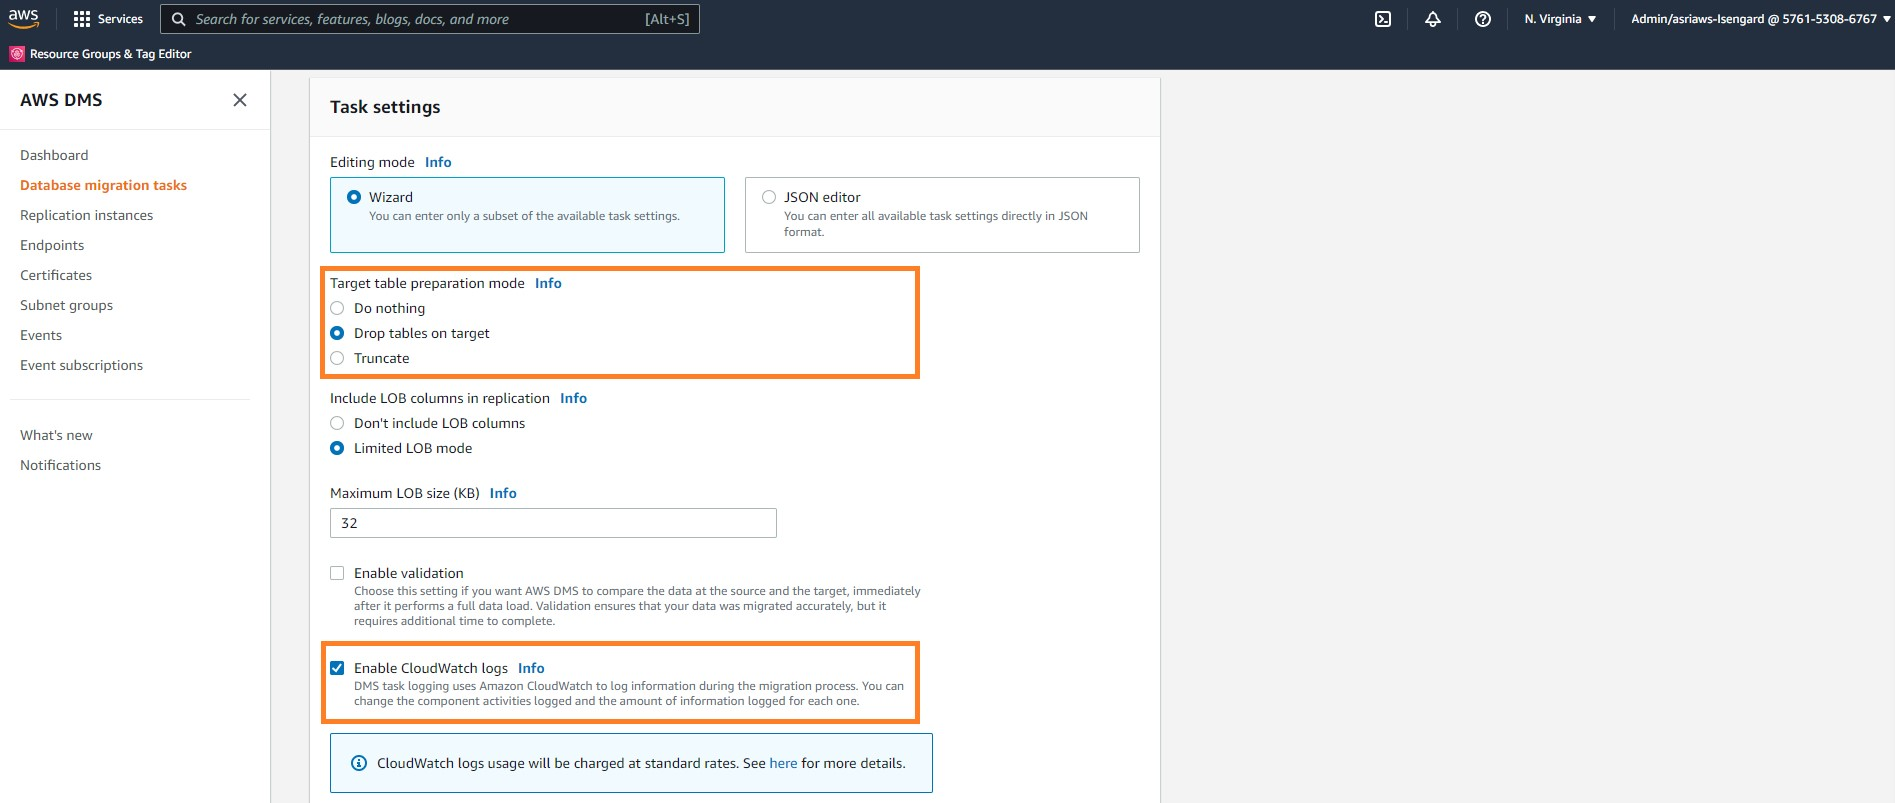
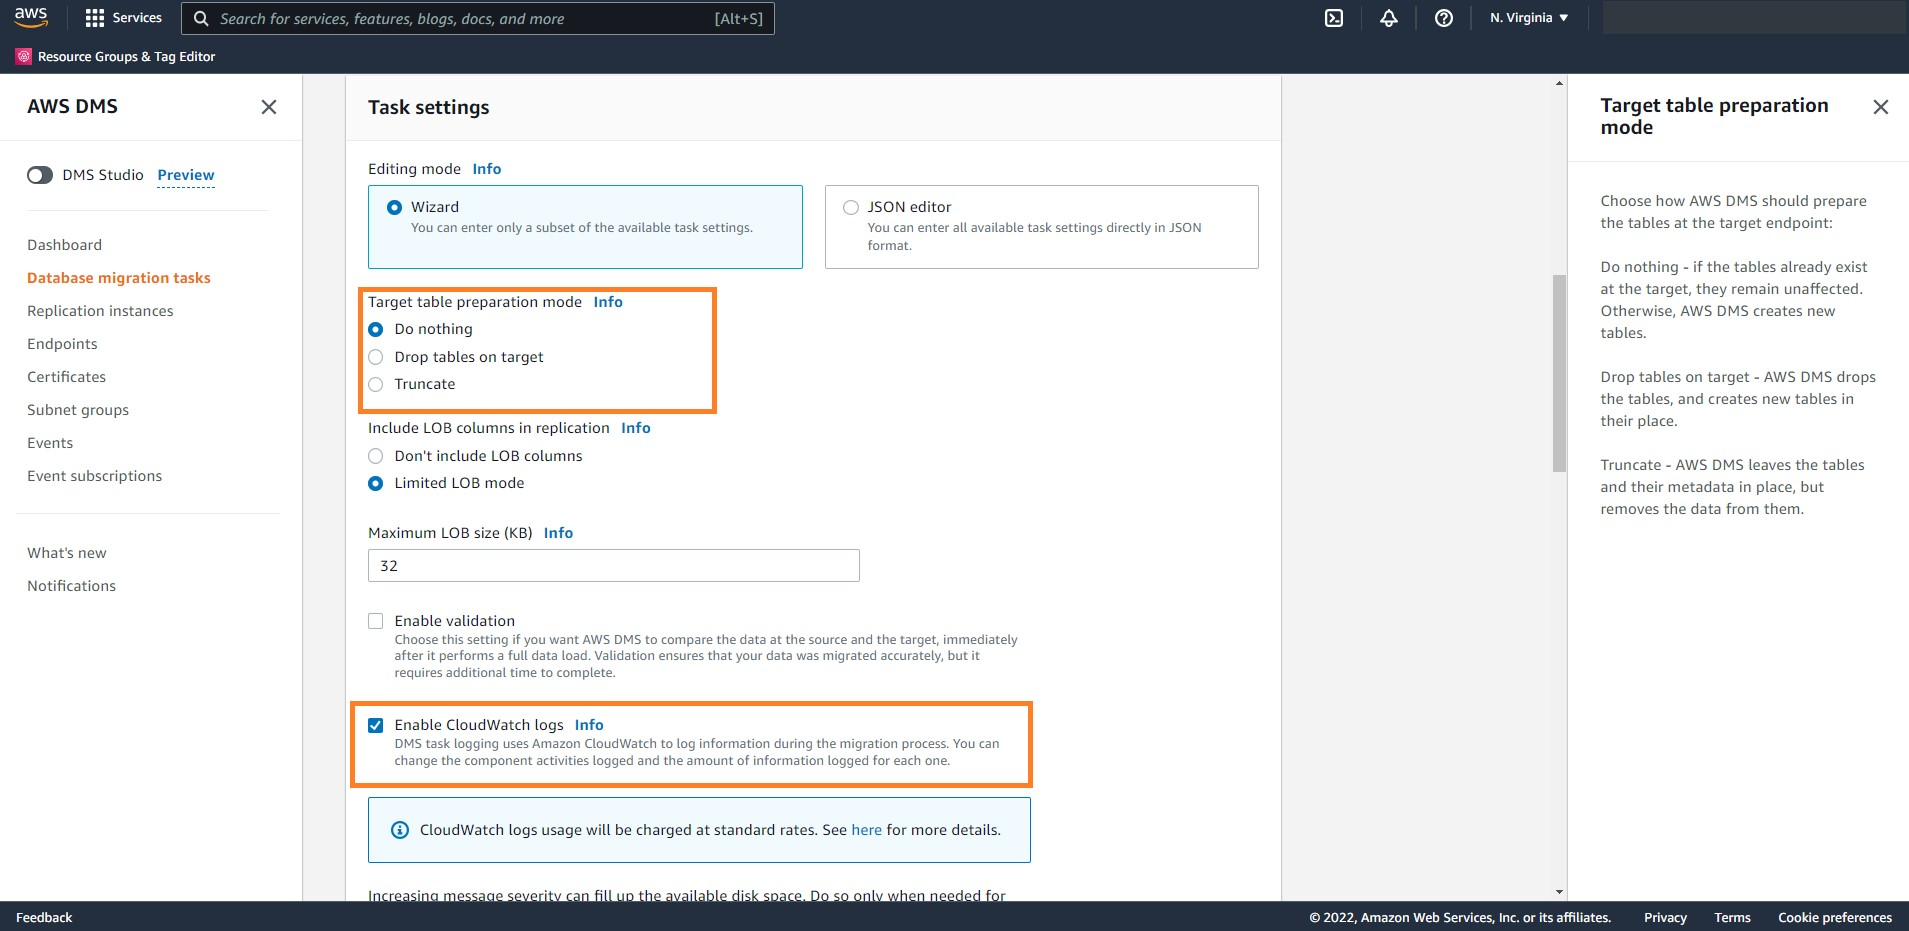
Syntax

diff --git a/content/hands-on-labs/rdbms-migration/migration-chapter05.en.md b/content/hands-on-labs/rdbms-migration/migration-chapter05.en.md
@@ -5,7 +5,7 @@ date = 2021-04-25T07:33:04-05:00
 weight = 50
 
 +++
-In this exercise, we will set up Database Migration Service(DMS) jobs to migrate data from source denormalized relational view to Amazon DynamoDB.
+In this exercise, we will set up Database Migration Service (DMS) jobs to migrate data from source MySQL database (relational view, tables) to Amazon DynamoDB.
 
  1. Go to IAM console > Roles > Create Role
  2. Under AWS Services, Select DMS > Next Permissions
@@ -13,16 +13,16 @@ In this exercise, we will set up Database Migration Service(DMS) jobs to migrate
  4. Next Tag, skip this step
  5. Next Review, add role name as dms-vpc-role and click Create role
  6. Download the [CloudFormation](/files/hands-on-labs/migration-dms-setup.yaml) template
- 7. Open [CloudFormation](https://console.aws.amazon.com/cloudformation/home?region=us-east-1#/stacks/create/template), click on Create Stack and select With new resources (standard)
+ 7. Open [CloudFormation](https://console.aws.amazon.com/cloudformation/home?region=us-east-1#/stacks/create/template), click on Create Stack and select with new resources (standard)
  8. Select Template source as Upload a template file and choose the downloaded yaml file
    ![Final Deployment Architecture](/images/migration17.jpg)
- 4. Click Next
- 5. Provide Stack Name and Update Parameters
+ 9. Click Next
+ 10. Provide Stack Name and Update Parameters
    ![Final Deployment Architecture](/images/migration18.jpg)
- 6. Click Next
- 7. Check I acknowledge and click Create stack. The CloudFormation template will take 5-10 minutes to build a replication environment. You can monitor the progress using stack status.
+ 11. Click Next
+ 12. Check I acknowledge and click Create stack. The CloudFormation template will take 5-10 minutes to build a replication environment. You can monitor the progress using stack status.
    ![Final Deployment Architecture](/images/migration19.jpg)
- 9. Once CloudFormation stack status shows CREATE_COMPLETE, go to [DMS Console](https://console.aws.amazon.com/dms/v2/home?region=us-east-1#dashboard)  and click on Replication Instances. You can able to see a replication instance with Class dms.c5.2xlarge in Available Status.
+ 13. Once CloudFormation stack status shows CREATE_COMPLETE, go to [DMS Console](https://console.aws.amazon.com/dms/v2/home?region=us-east-1#dashboard)  and click on Replication Instances. You can able to see a replication instance with Class dms.c5.2xlarge in Available Status.
    ![Final Deployment Architecture](/images/migration20.jpg)
 ## Create source and target endpoints
 
@@ -56,20 +56,21 @@ In this exercise, we will set up Database Migration Service(DMS) jobs to migrate
 
    ## Configure and Run a Replication Task
 
-  Still in the AWS DMS console, go to Database migration tasks and click the Create Task button.
-  1. Enter the following parameter values in the Create database migration task screen:
+  Still in the AWS DMS console, go to Database migration tasks and click the Create Task button. We will create 3 replication jobs to migrate denormalized view, ratings (title_ratings) and regions/languages (title_akas) information.
+  1. Task1: Enter the following parameter values in the Create database migration task screen:
     | Parameter        | Value |
     | ------------- |:-------------:|
-    | Task identified     | historical-migration|
+    | Task identified     | historical-migration01|
     | Replication instance     | mysqltodynamodb-instance-*|
     | Source database endpoint     | mysql-endpoint|
     | Target database endpoint     | dynamodb-endpoint|
     | Migration type     | Migrate existing data|
-    | Enable CloudWatch logs | Checked |
-    | Table mappings | Select JSON editor option and copy the JSON document mentioned below|
-    | Start task on create     | Checked|
+    | Task settings: Editing mode  | Wizard|
+    | Task settings: Target table preparation mode | Do nothing|
+    | Task settings: Enable CloudWatch logs | Checked |
+    | Table mappings: Editing mode | Select JSON editor option and paste JSON document as mentioned below|
 
-To Migrate Denormalized View
+JSON document to migrate denormalized view from imdb MySQL database (Task identified: historical-migration01)
   ```json
 
       {
@@ -119,13 +120,57 @@ To Migrate Denormalized View
           ]
       }
   ```
-![Final Deployment Architecture](/images/migration25.jpg)
-![Final Deployment Architecture](/images/migration26.jpg)
-The replication job for historical migration will start moving data from MySQL dynamo_migration denormalized view to DynamoDB table in a few minutes. The job will migration 2.5 million records and normally takes 4-5 Hrs.
-You can track the status of data loading under the Table statistics of the migration task. Once loading is in progress, feel free to move to the next section of the exercise.
-![Final Deployment Architecture](/images/migration27.jpg)
+  JSON document to migrate title_akas table from imdb MySQL database (Task identified: historical-migration02)
 
-To Migrate Ratings table (Ensure to Change Target table preparation mode = Do nothing to preserve data from first historical load)
+  ```json
+    {
+      "rules": [
+          {
+              "rule-type": "selection",
+              "rule-id": "1",
+              "rule-name": "1",
+              "object-locator": {
+                  "schema-name": "imdb",
+                  "table-name": "title_akas",
+                  "table-type": "table"
+              },
+              "rule-action": "include"
+          },
+          {
+              "rule-type": "object-mapping",
+              "rule-id": "2",
+              "rule-name": "2",
+              "rule-action": "map-record-to-record",
+              "object-locator": {
+                  "schema-name": "imdb",
+                  "table-name": "title_akas",
+                  "table-type": "table"
+              },
+              "target-table-name": "movies",
+              "mapping-parameters": {
+                  "partition-key-name": "mpkey",
+                  "sort-key-name": "mskey",
+                  "exclude-columns": [],
+                  "attribute-mappings": [
+                      {
+                          "target-attribute-name": "mpkey",
+                          "attribute-type": "scalar",
+                          "attribute-sub-type": "string",
+                          "value": "${titleId}"
+                      },
+                      {
+                          "target-attribute-name": "mskey",
+                          "attribute-type": "scalar",
+                          "attribute-sub-type": "string",
+                          "value": "REGN|${region}"
+                      }
+                  ]
+              }
+          }
+      ]
+    }
+  ```
+JSON document to migrate title_ratings table from imdb MySQL database (Task identified: historical-migration03)
   ```json
 
   {
@@ -175,53 +220,15 @@ To Migrate Ratings table (Ensure to Change Target table preparation mode = Do no
       ]
     }
   ```
-To Migrate title akas table (Ensure to Change Target table preparation mode = Do nothing to preserve data from first historical load).
 
-```json
-  {
-    "rules": [
-        {
-            "rule-type": "selection",
-            "rule-id": "1",
-            "rule-name": "1",
-            "object-locator": {
-                "schema-name": "imdb",
-                "table-name": "title_akas",
-                "table-type": "table"
-            },
-            "rule-action": "include"
-        },
-        {
-            "rule-type": "object-mapping",
-            "rule-id": "2",
-            "rule-name": "2",
-            "rule-action": "map-record-to-record",
-            "object-locator": {
-                "schema-name": "imdb",
-                "table-name": "title_akas",
-                "table-type": "table"
-            },
-            "target-table-name": "movies",
-            "mapping-parameters": {
-                "partition-key-name": "mpkey",
-                "sort-key-name": "mskey",
-                "exclude-columns": [],
-                "attribute-mappings": [
-                    {
-                        "target-attribute-name": "mpkey",
-                        "attribute-type": "scalar",
-                        "attribute-sub-type": "string",
-                        "value": "${titleId}"
-                    },
-                    {
-                        "target-attribute-name": "mskey",
-                        "attribute-type": "scalar",
-                        "attribute-sub-type": "string",
-                        "value": "REGN|${region}"
-                    }
-                ]
-            }
-        }
-    ]
-  }
-```
+![Final Deployment Architecture](/images/migration25.jpg)
+![Final Deployment Architecture](/images/migration26.jpg)
+You need to create two more tasks with similar steps (historical-migration02 and historical-migration03).
+Don't change any other parameter except the Table mappings Editing mode.
+For historical-migration02 and historical-migration03 tasks use the JSON document mentioned below.
+The replication job for historical migration will start moving data from MySQL imdb.movies view, title_akas and title_ratings to DynamoDB table will start in a few minutes.
+  - historical-migration01 job will migrate 800K+ records and normally takes 2-3 Hrs.
+  - historical-migration02 job will migrate 747K+ records and normally takes 2-3 Hrs.
+  - historical-migration03 job will migrate 79K+ records and normally takes 10-15 Minutes.
+You can track the status of data loading under the Table statistics of the migration task. Once loading is in progress, feel free to move to the next section of the exercise.
+![Final Deployment Architecture](/images/migration27.jpg)

diff --git a/content/hands-on-labs/rdbms-migration/migration-chapter06.en.md b/content/hands-on-labs/rdbms-migration/migration-chapter06.en.md
@@ -83,4 +83,4 @@ This will allow querying on the new partition key for GSI vs scan on the base ta
   WHERE "nconst" = 'nm0000142' and "startYear" >= '2002'
   ORDER BY "startYear"
 ```
-Congratulations! you have completed the RDBMS migration exercise.
+Congratulations! you have completed the RDBMS migration exercise. 
